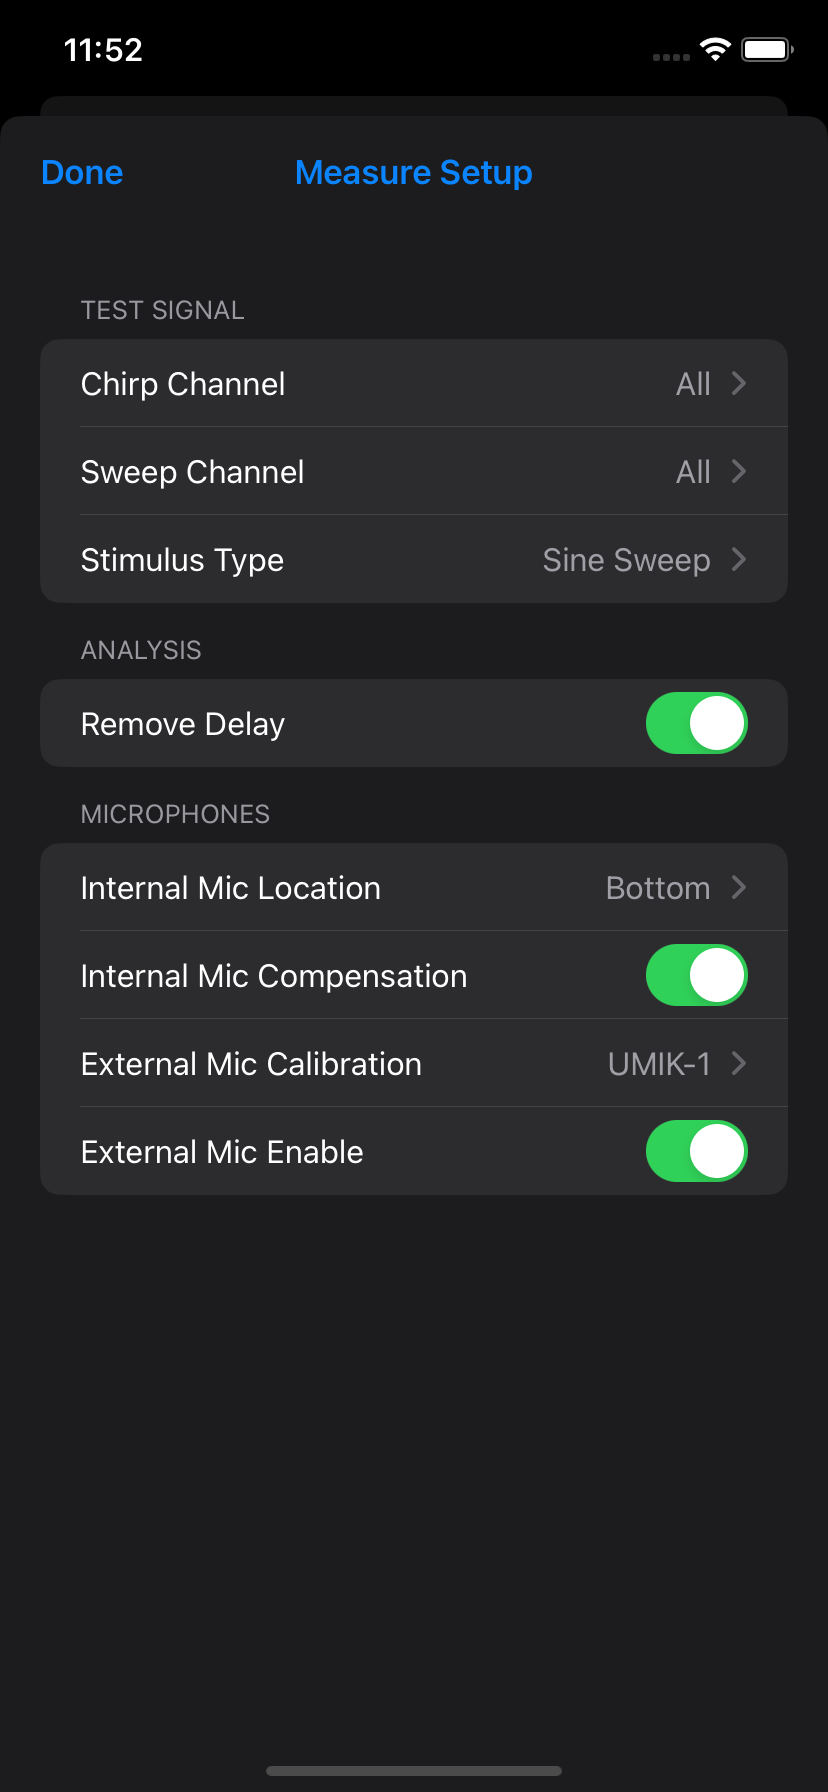
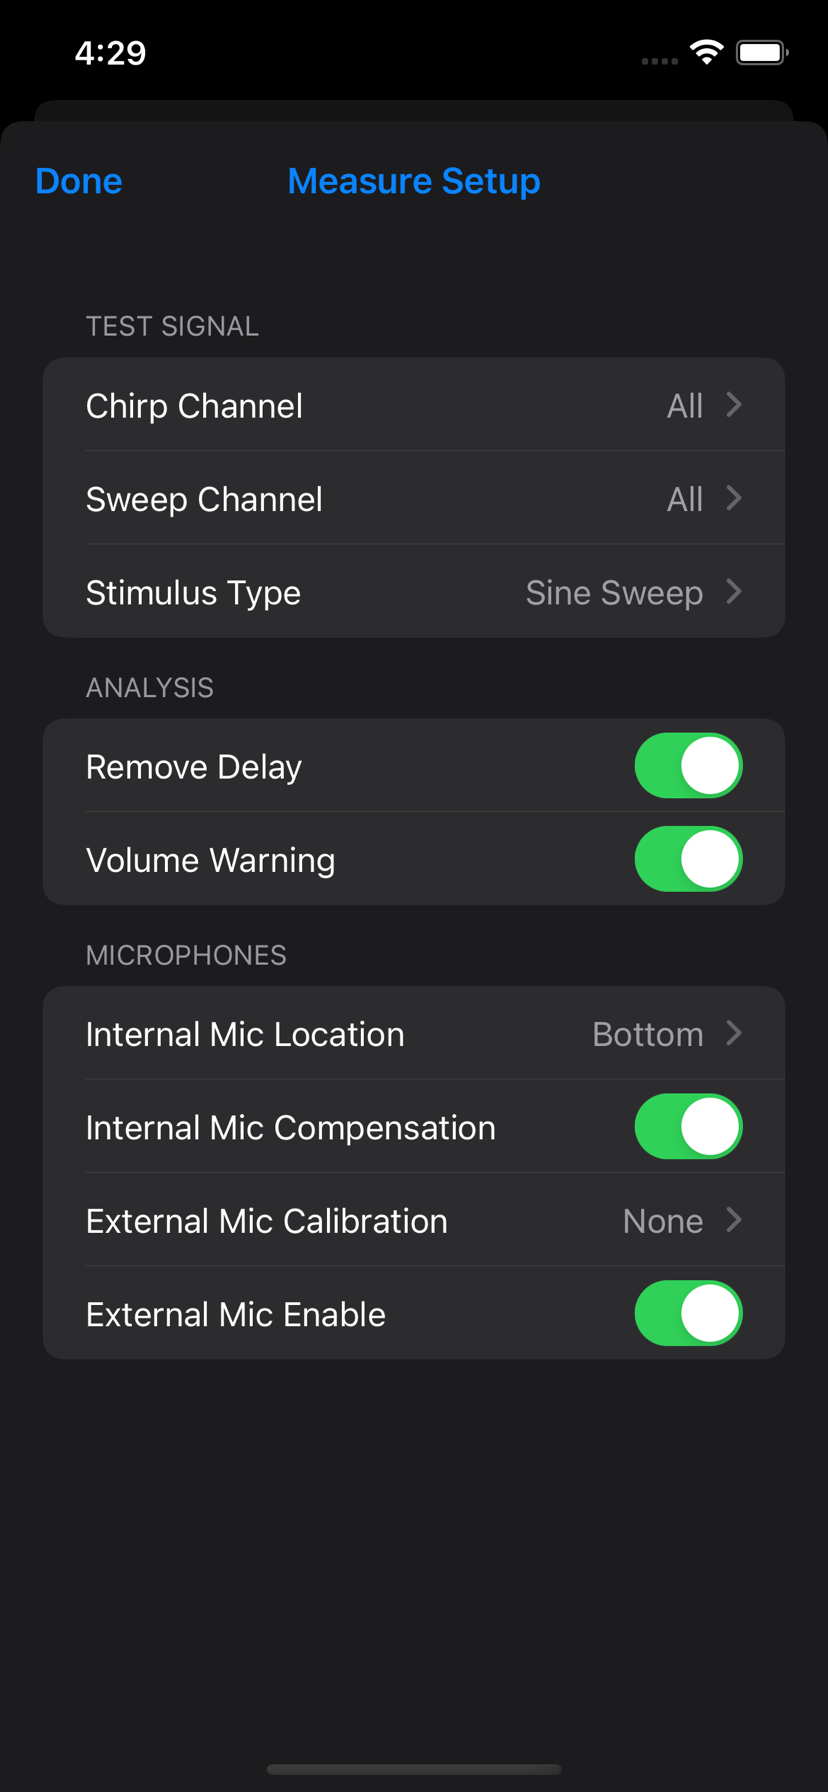
Updating for 5.1.2

diff --git a/docs/manual/measure_setup.md b/docs/manual/measure_setup.md
@@ -43,14 +43,16 @@ When averaging measurements, this setting should be enabled.  This ensures the a
 When time aligning speakers, this setting should be disabled.  The change in phase slope and group delay is needed to measure alignment.
 
 
+## Volume Warning
+If the iPhone/iPad volume is set too high when a measurement is started, a warning appears and the measurement is aborted.  The warning will only appear once per connection.  It can be disabled if it's a nuisance (ex: audio system has another way to control the volume).
+
+
 ## Internal Mic Location
 Choose which internal microphone to use for measurement.  By default, HouseCurve uses the bottom microphone on iPhones and the top microphone on iPads.
 
 
 ## Internal Mic Compensation
-The average built in iPhone/iPad is reasonably flat, but begins to roll off below ~60 Hz and above ~16 KHz.  Internal Mic Compensation applies a moderate boost to correct this.  The boost curve is +6 dB at 30 Hz, tapering to zero at 60 Hz.  Likewise, at 16 KHz, the boost is zero and this increases to 6 dB at 20 KHz.
-
-It's worth keeping in mind that the iPhone/iPad can still "hear" below 60 Hz and above 16 KHz, it's just not as sensitive.  Internal Mic Compensation brings the measured response closer to what you would get with a calibrated extrnal mic.
+The average built in iPhone/iPad microphone is reasonably flat, but begins to roll off below ~60 Hz.  Internal Mic Compensation brings the measured response closer to what you would get with a calibrated external mic.  It is worth keeping in mind that the iPhone/iPad can still "hear" below 60 Hz, it is just not as sensitive.
 
 
 ## External Mic Calibration
